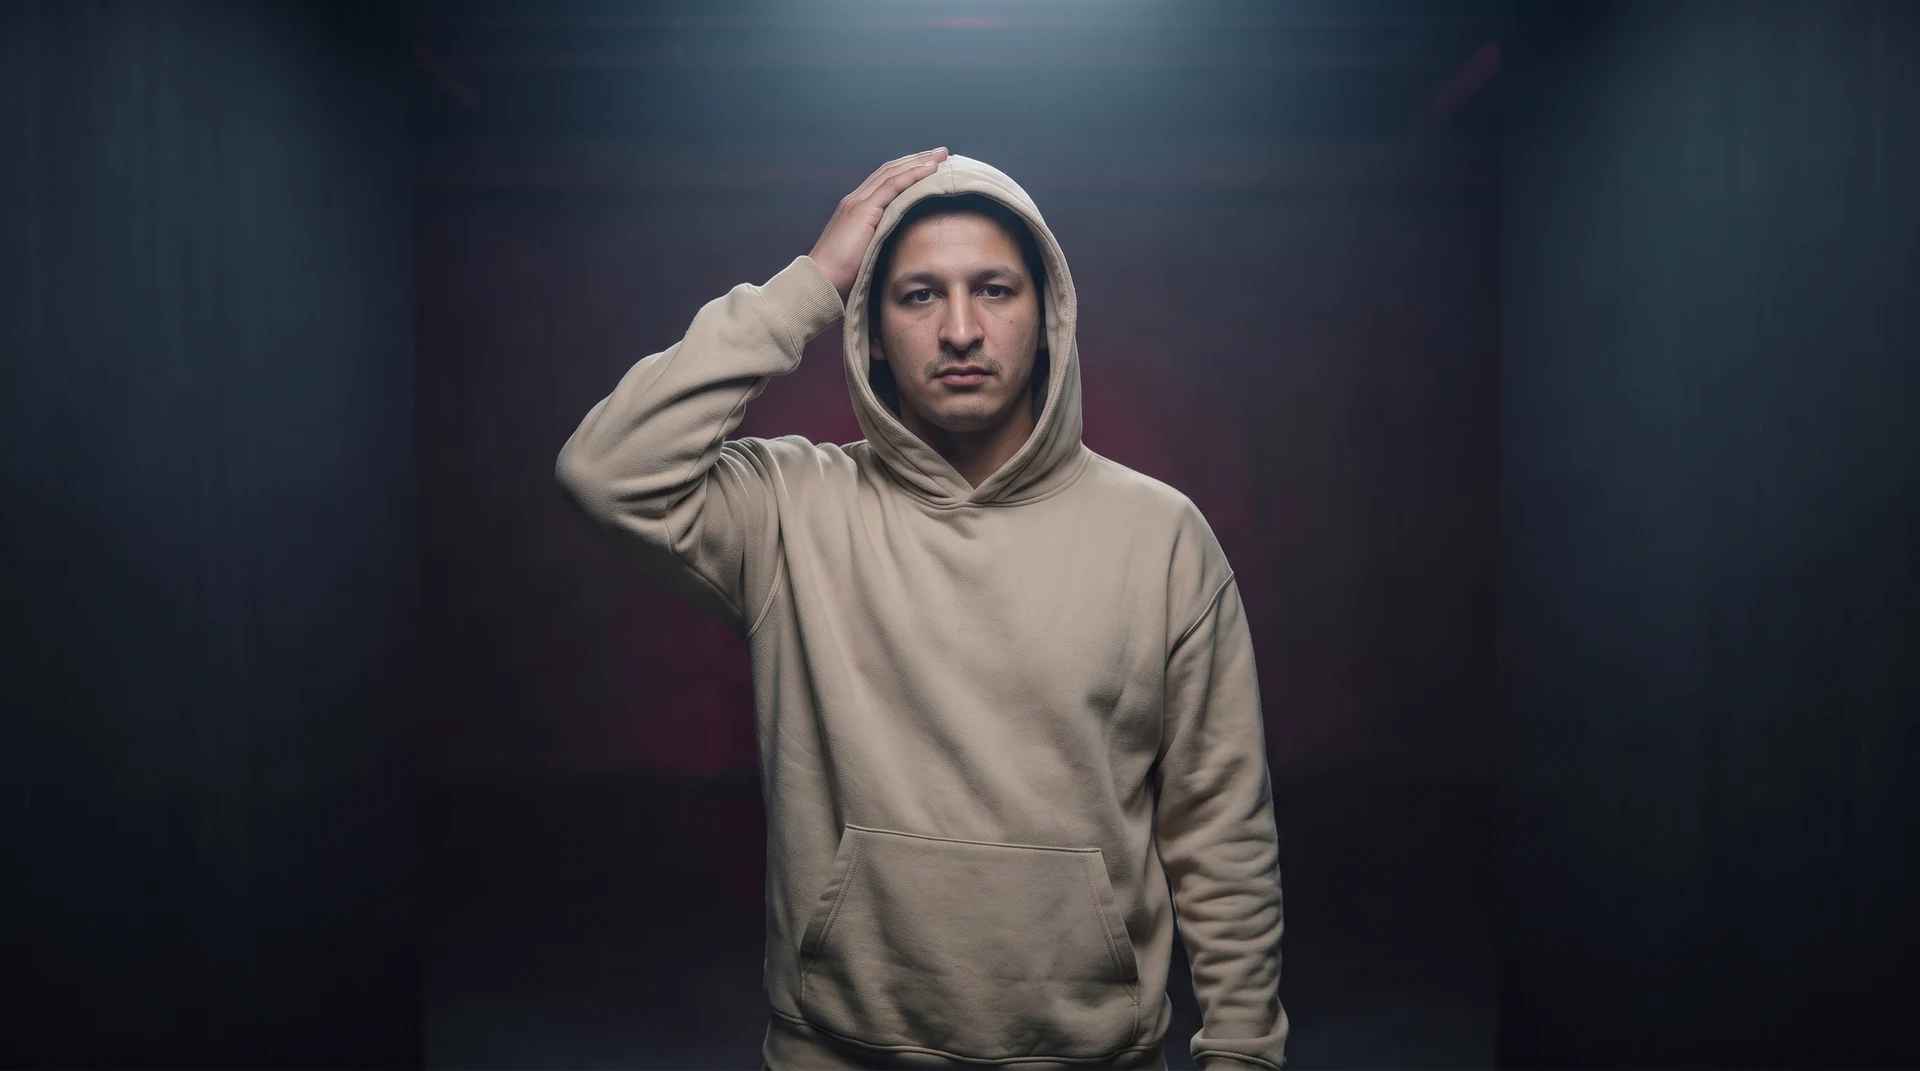
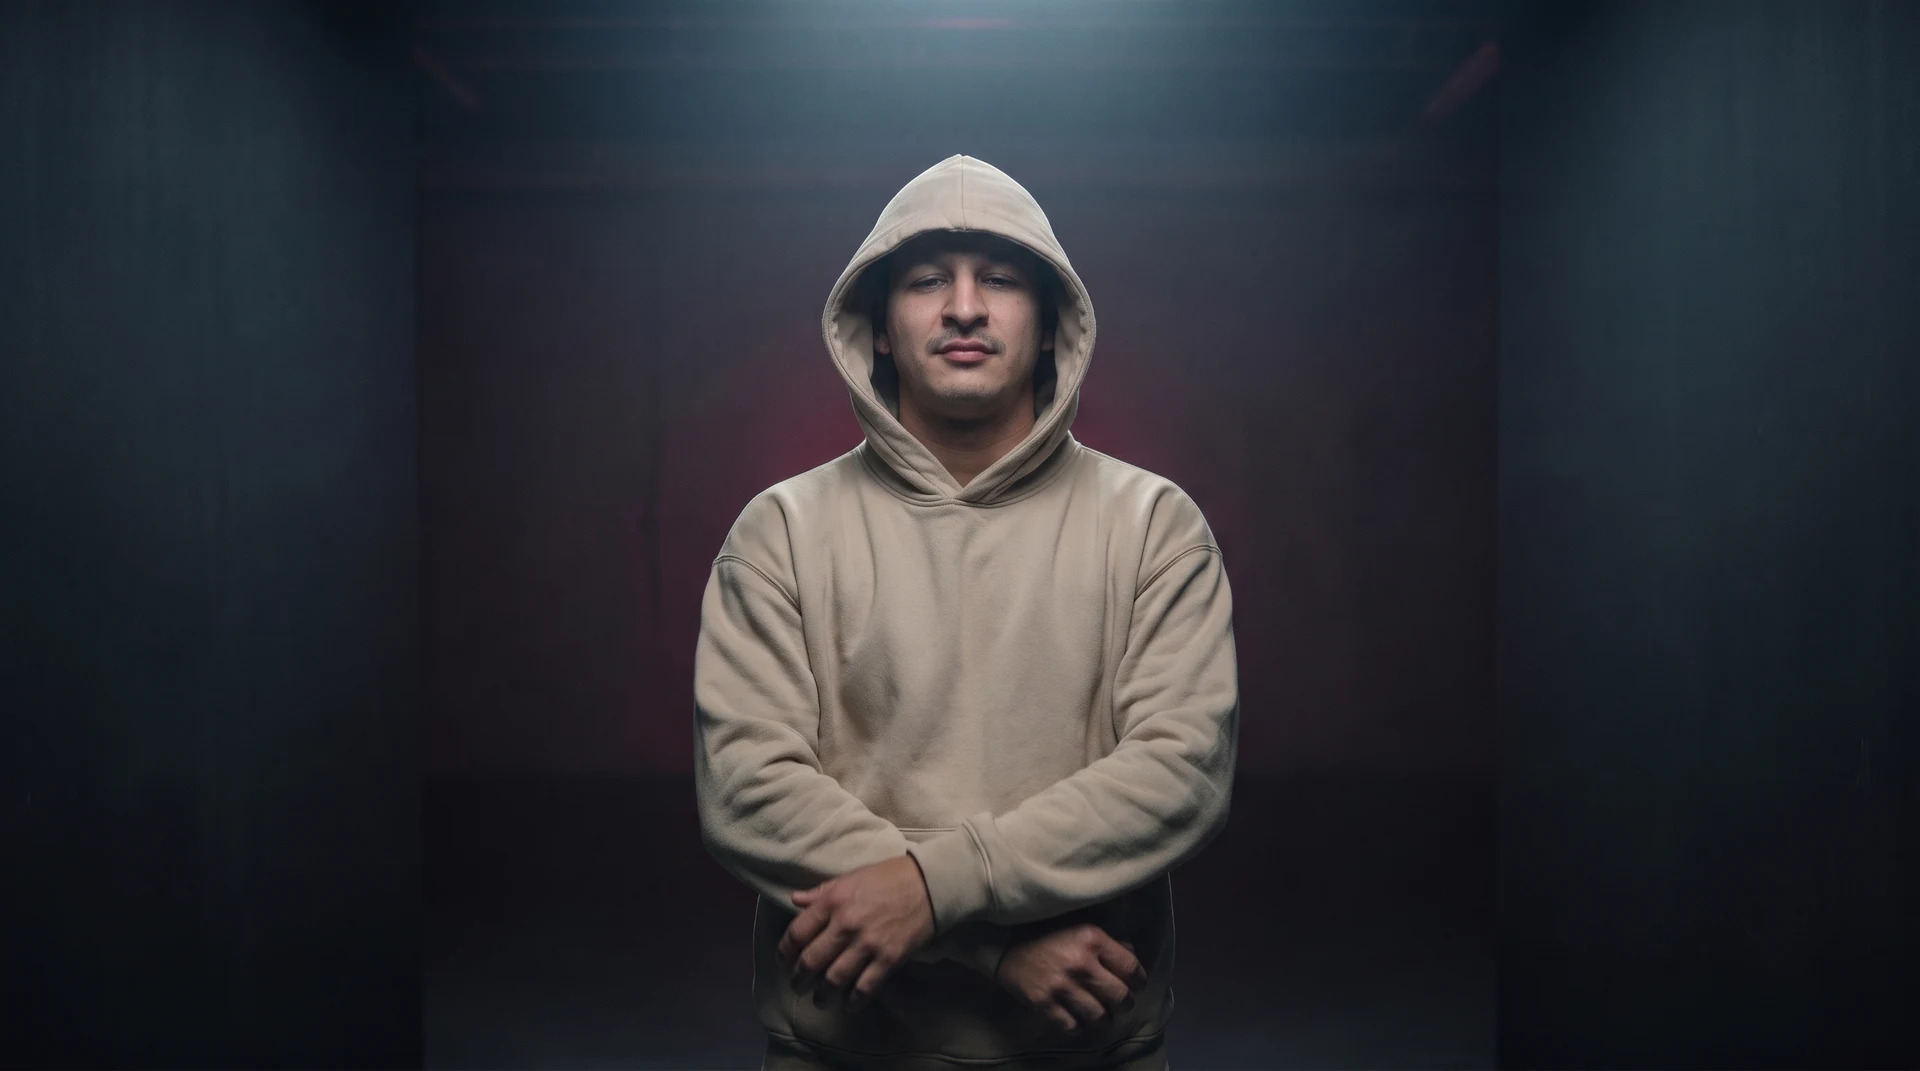
Hero: 11 imagens na sequência (4 quadros intermediários) para suavizar a fusão entre poses
Claude-Session: https://claude.ai/code/session_015mEDPrDQAcW2ftRUuvkKUU

Changed region(s): [[0.2812, 0.1232, 0.6875, 1.0]]

diff --git a/src/lib/hero/index.ts b/src/lib/hero/index.ts
@@ -1,16 +1,16 @@
-// O hero: sete imagens (nada de vídeo, que pesa) trocadas em fusão num canvas, dirigidas pela rolagem, simulam o movimento:
+// O hero: onze imagens (nada de vídeo, que pesa) trocadas em fusão num canvas, dirigidas pela rolagem, simulam o movimento:
 // o Zacarias, de capuz e braços cruzados, descruza, tira o capuz, revela o rosto e põe as mãos no bolso. Depois, os projetos
 // sobem pelos dois lados da tela.
 // - Computador: o palco fica preso (5 telas); 0-45% é a sequência de imagens, 6-12% o texto some (antes de os braços abrirem), 45-100% as colunas laterais sobem.
 // - Celular: o quadro fica preso por 1,2 tela e os projetos vêm depois, em coluna, no fluxo normal.
-// As imagens baixam em ordem (as duas primeiras liberam o carregador); são cerca de 100 KB cada.
+// As imagens baixam em ordem (as duas primeiras liberam o carregador); são cerca de 70 KB cada.
 // Movimento reduzido ou sem JS: o quadro final e os projetos em lista (CSS).
 import { gsap } from 'gsap';
 import { ScrollTrigger } from 'gsap/ScrollTrigger';
 
 gsap.registerPlugin(ScrollTrigger);
 
-const TOTAL = 7;
+const TOTAL = 11;
 const L = 1920;
 const A = 1071;
 const limitar = (x: number, a = 0, b = 1) => Math.min(b, Math.max(a, x));
@@ -61,12 +61,12 @@ export function prepararHero({ reduzido }: { reduzido: boolean }): Hero | null {
     return k >= 0 && k < TOTAL ? k : -1;
   };
   let ultimo = '';
-  // p vai de 0 a 1 pelas sete imagens; cada pose segura um pouco e troca em fusão suave
+  // p vai de 0 a 1 pelas onze imagens; cada pose segura um pouco e troca em fusão suave
   const desenhar = (p: number) => {
     const pos = limitar(p) * (TOTAL - 1);
     const i = Math.min(TOTAL - 2, Math.floor(pos));
     const t = pos - i;
-    const f = limitar((t - 0.3) / 0.4);
+    const f = limitar((t - 0.2) / 0.6);
     const mistura = f * f * (3 - 2 * f);
     const a = proximo(i, -1);
     const b = proximo(i + 1, 1);
